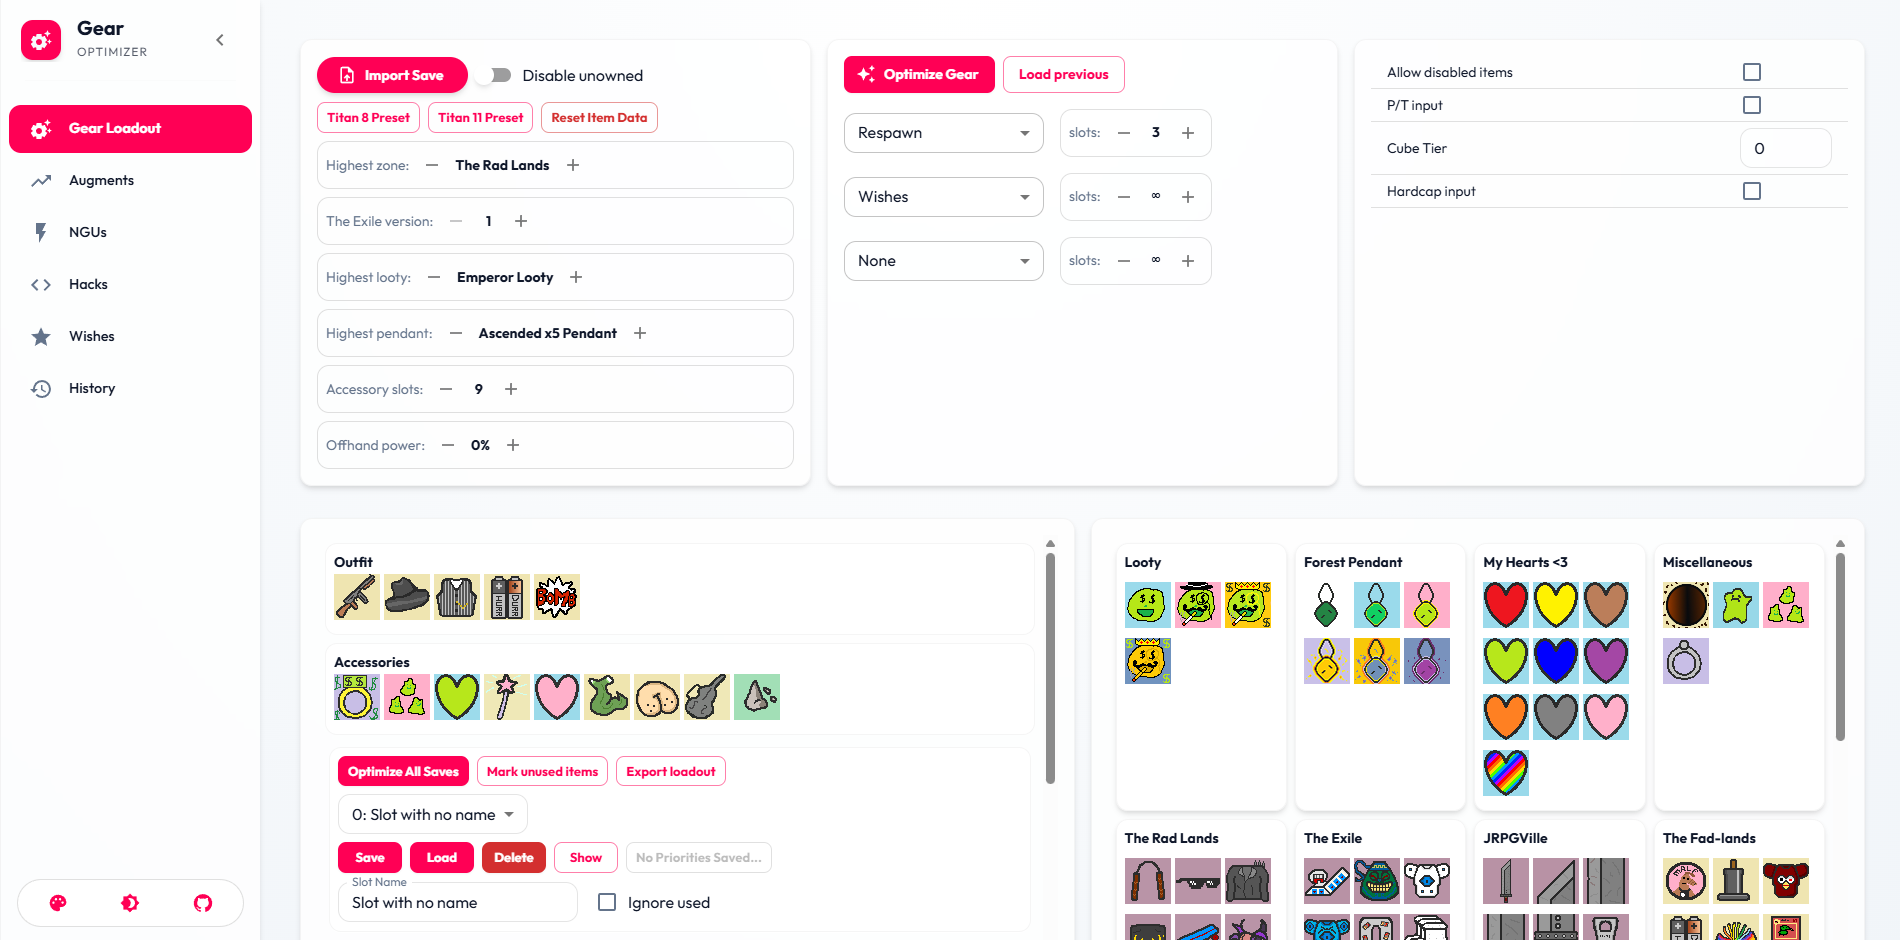
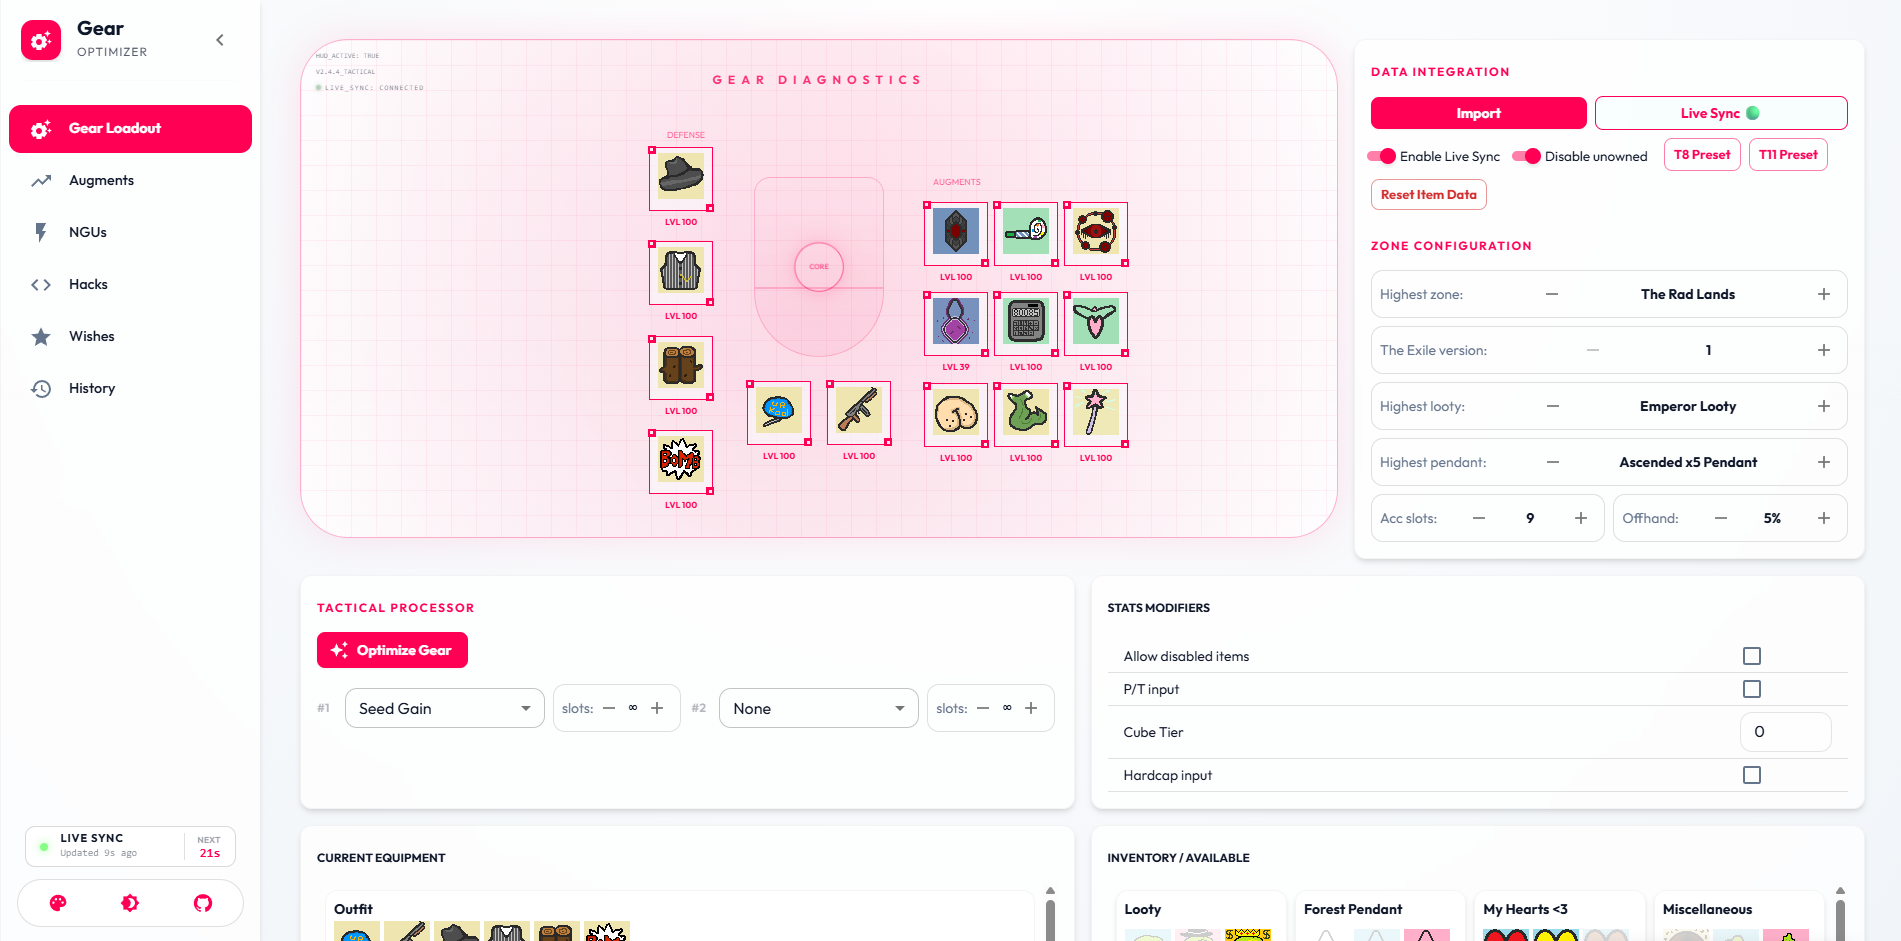
docs: Redesign README and add Live Sync setup guide

diff --git a/README.md b/README.md
@@ -10,93 +10,67 @@ A modernized, high-performance fork of the original **Gear Optimizer** for NGU I
 
 ---
 
-## 🎨 Material 3 Revamp
-We've completely overhauled the UI to align with Google's **Material 3 Expressive** design system.
-
+## 🎨 Fresh Look, New Powers
 ![Home Page](src/assets/readme/home.png)
-*Modernized Home Page - featuring dynamic colors and glassmorphism elements.*
+*Experience NGU Idle optimization with a sleek, responsive Material 3 interface.*
 
-- **Dynamic Color Engine**: Choose your vibe with themes like **Forest (Default)**, Lime, Slate, Purple, and more.
-- **Dark & Light Modes**: Fully supported with smooth transitions and optimized contrast.
-- **Expressive Aesthetics**:
-  - Rounded corners and elevated surfaces.
-  - "Ghost Pill" navigation with sliding animations.
-  - Custom "Starburst" loading indicators.
+### ✨ Highlights
+- **Material 3 Design**: Dynamic colors, glassmorphism, and smooth animations.
+- **Instant Performance**: Powered by Vite and React for zero-lag interactions.
+- **Smart History**: Track your progress across rebirths with detailed charts.
+- **Growth Analysis**: Visualize NGU and Hack efficiency with "best gain" highlighting.
 
-## ⚡ Performance Boost
-Optimization isn't just about gear—it's about the app too.
-- **Vite Powered**: Instant startup and hot reloading.
-- **React Router v6**: Modern, declarative routing.
-- **Debounced Saves**: No more input lag. State saving is handled asynchronously to keep the UI buttery smooth.
-- **Code Splitting**: Heavy components load only when you need them (`React.lazy` & `Suspense`).
-- **Memoized Computing**: Complex calculations are isolated to prevent unnecessary re-renders.
+---
 
-## 🚀 Key Features
+## 📡 Live Sync (New!)
+Stop manually exporting and importing saves! **Live Sync** connects the optimizer directly to your game.
+
+![Live Sync Setup](src/assets/readme/live_sync_setup.png)
+
+### How to use:
+1.  **Download the Mod**: [NGULiveSync.dll](https://github.com/postEntropy/gear-optimizer/raw/master/public/NGULiveSync.dll)
+2.  **Install**: Place the `.dll` file into your `BepInEx/plugins` folder.
+3.  **Launch**: Open NGU Idle. Use the **Live Sync** button in the optimizer to connect.
+4.  **Enjoy**: Your stats, gear, and progress update automatically in real-time!
+
+---
+
+## 🚀 Features Deep Dive
+
 ### 🛒 Gear Optimization
-- Calculate the mathematically perfect loadout for your current stats.
-- Supports all factors: Power, Toughness, NGU Speed, Gold Drops, etc.
+Calculate the mathematically perfect loadout for your current stats, factoring in Power, Toughness, NGU Speed, Gold Drops, and more with high-precision math.
 
-### 💹 Growth Efficiency & Highlights
-A major feature of this fork is the integration of high-precision **Growth Efficiency** tools and visualization for advanced progression.
-
+### 💹 Growth Efficiency
 ![NGU Timeline](src/assets/readme/ngus_timeline.png)
-*NGU Progress Timeline - Visualizing projected levels and bonus gains at key milestones (1h, 12h, 24h).*
+*Visualizing projected levels and bonus gains at key milestones (1h, 12h, 24h).*
 
-- **NGU Progress Timeline**:
-  - **Milestone Navigation**: Toggleable rows (🕒 icon) reveal a comprehensive timeline showing projected levels (Normal, Evil, Sadistic) and percentage bonus gains.
-  - **Dynamic Highlights**: The timeline automatically emphasizes your "Set Time" configuration, providing immediate feedback on rewards for your current rebirth plan.
-  - **Game-Native Formatting**: All numbers (Million, Billion, Trillion, etc.) and level gains match the in-game experience perfectly.
-- **Efficiency Highlighting**:
-  - **Star Indicators (⭐)**: The system automatically calculates the efficiency across all active NGUs and Hacks, highlighting the upgrade with the best gain per resource with a star icon.
-- **Cumulative Comparison**:
-  - Section-wide charts at the bottom of Energy/Magic NGU and Hacks tables allow you to compare total growth between all available upgrades at a glance.
-
-![Hacks Charts](src/assets/readme/hacks_chart.png)
-*Hacks Charting - Tracking progression and milestones with high-precision simulation.*
+- **Timeline Projections**: See exactly where your NGUs will be in the future.
+- **Efficiency Stars (⭐)**: Automatically highlights the most efficient upgrade for your Energy/Magic.
+- **Game-Native Formatting**: Numbers match the game format (1.23M, 4.56B) for easy reading.
 
 ### 📜 History Tracking
-Track your progress over time by importing "Rebirth Saves". This feature is designed to work with **[jshepler's NGU Mods](https://github.com/jshepler/jshepler.ngu.mods)**, which automatically generate saves named in the format `Rebirth_YYYY-MM-DD_HH-MM-SS.json`.
-
 ![History Start](src/assets/readme/history_start.png)
-*Import your rebirth saves to build a comprehensive timeline of your progress using detailed charts for Energy, Magic, and Resource 3.*
+*Import rebirth saves to build a comprehensive timeline.*
 
-- **Resource Visualization**: Detailed charts for **Energy**, **Magic**, and **Resource 3** (Power, Capacity, Bars).
-- **Metric Tracking**: Monitor **Total Playtime**, **Arbitrary Points (AP)**, and other key stats across rebirths.
-- **Save Management**: Automatically detects duplication to ensure clean history data.
-
-### 🛠 UX Improvements
-- **Advanced Modifiers**: Integrated seamlessly into the main dashboard (no more popups!).
-- **Page Transitions**: Smooth fade and slide animations between tabs.
-- **Context Preservation**: Refreshing the page keeps you exactly where you were.
+- **Resource Visualization**: Detailed charts for **Energy**, **Magic**, and **Resource 3**.
+- **Metric Tracking**: Monitor **Total Playtime**, **Arbitrary Points (AP)**, and more.
+- **Auto-Detection**: Works perfectly with `jshepler.ngu.mods` auto-saves.
 
 ---
 
 ## 💻 Running Locally
 
-1.  **Clone the repo**
-    ```bash
-    git clone https://github.com/postEntropy/gear-optimizer.git
-    cd gear-optimizer
-    ```
+```bash
+# Clone
+git clone https://github.com/postEntropy/gear-optimizer.git
+cd gear-optimizer
 
-2.  **Install dependencies**
-    ```bash
-    npm install
-    # or
-    yarn
-    ```
+# Install
+npm install
 
-3.  **Start the Dev Server**
-    ```bash
-    npm start
-    ```
-
-4.  **Build for Production**
-    ```bash
-    npm run build
-    ```
-
----
+# Start
+npm start
+```
 
 ## Credits
 Based on the original [Gear Optimizer](https://github.com/gmiclotte/gear-optimizer) by **gmiclotte**.
